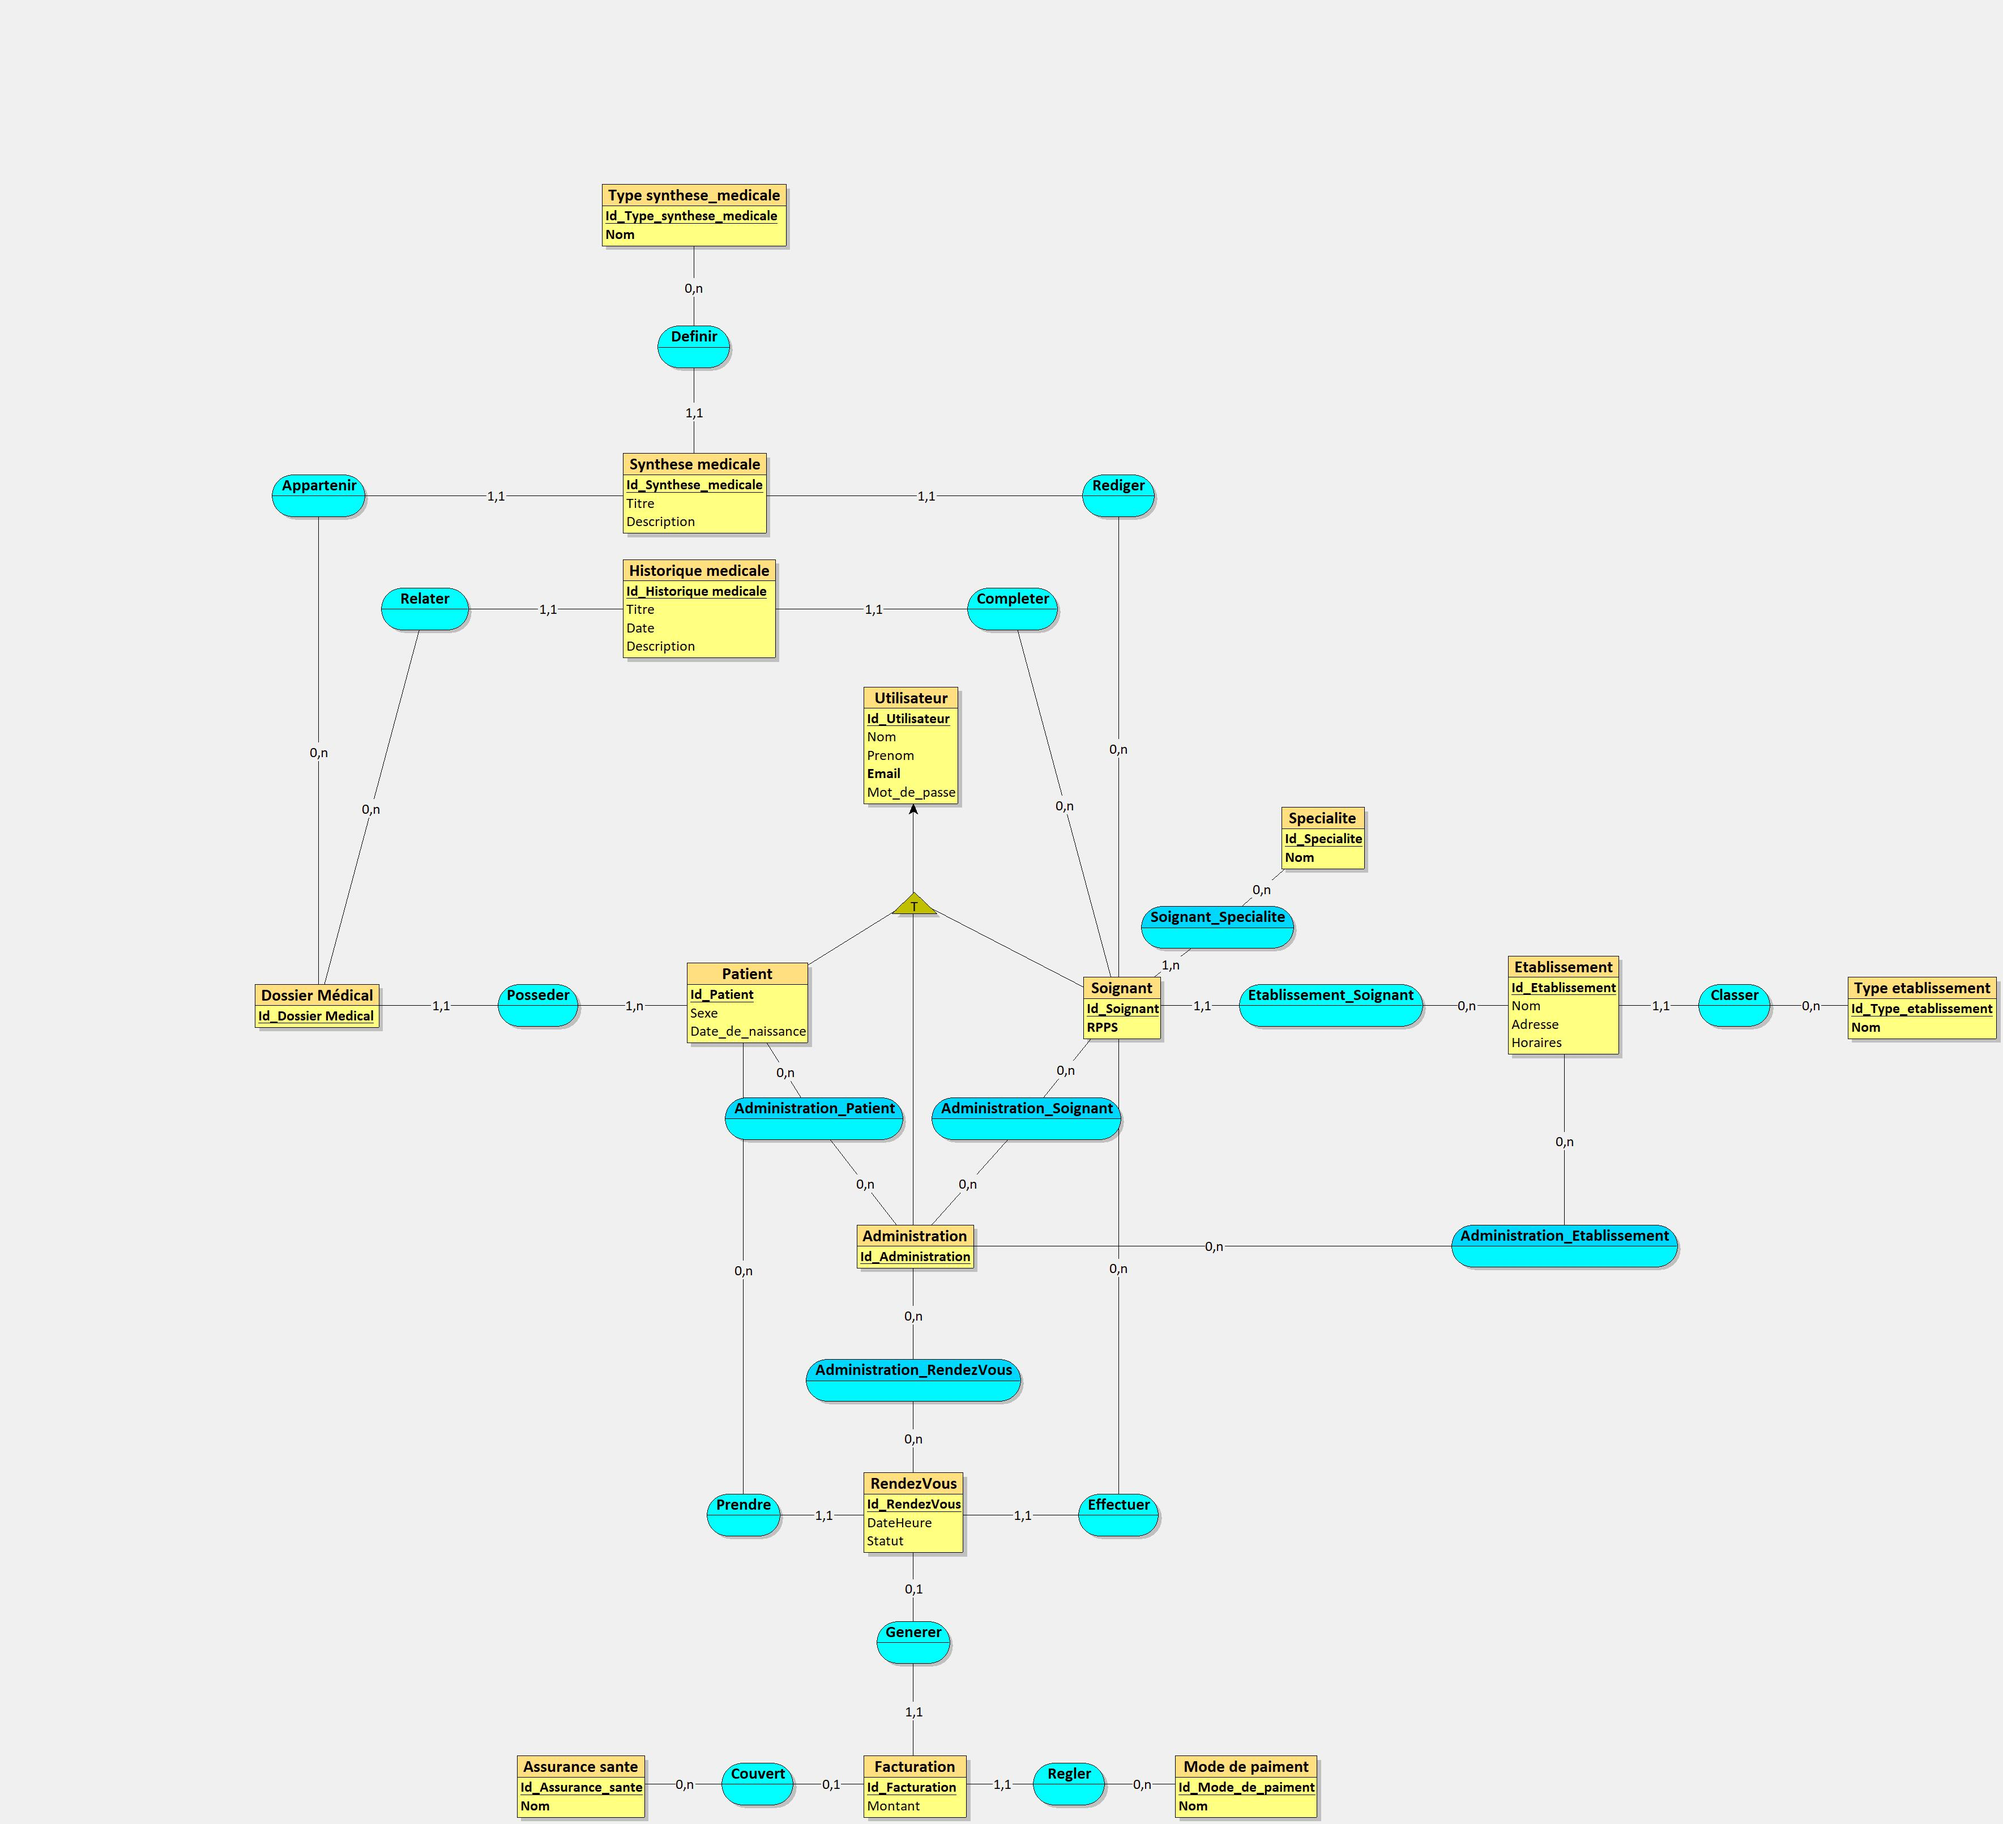
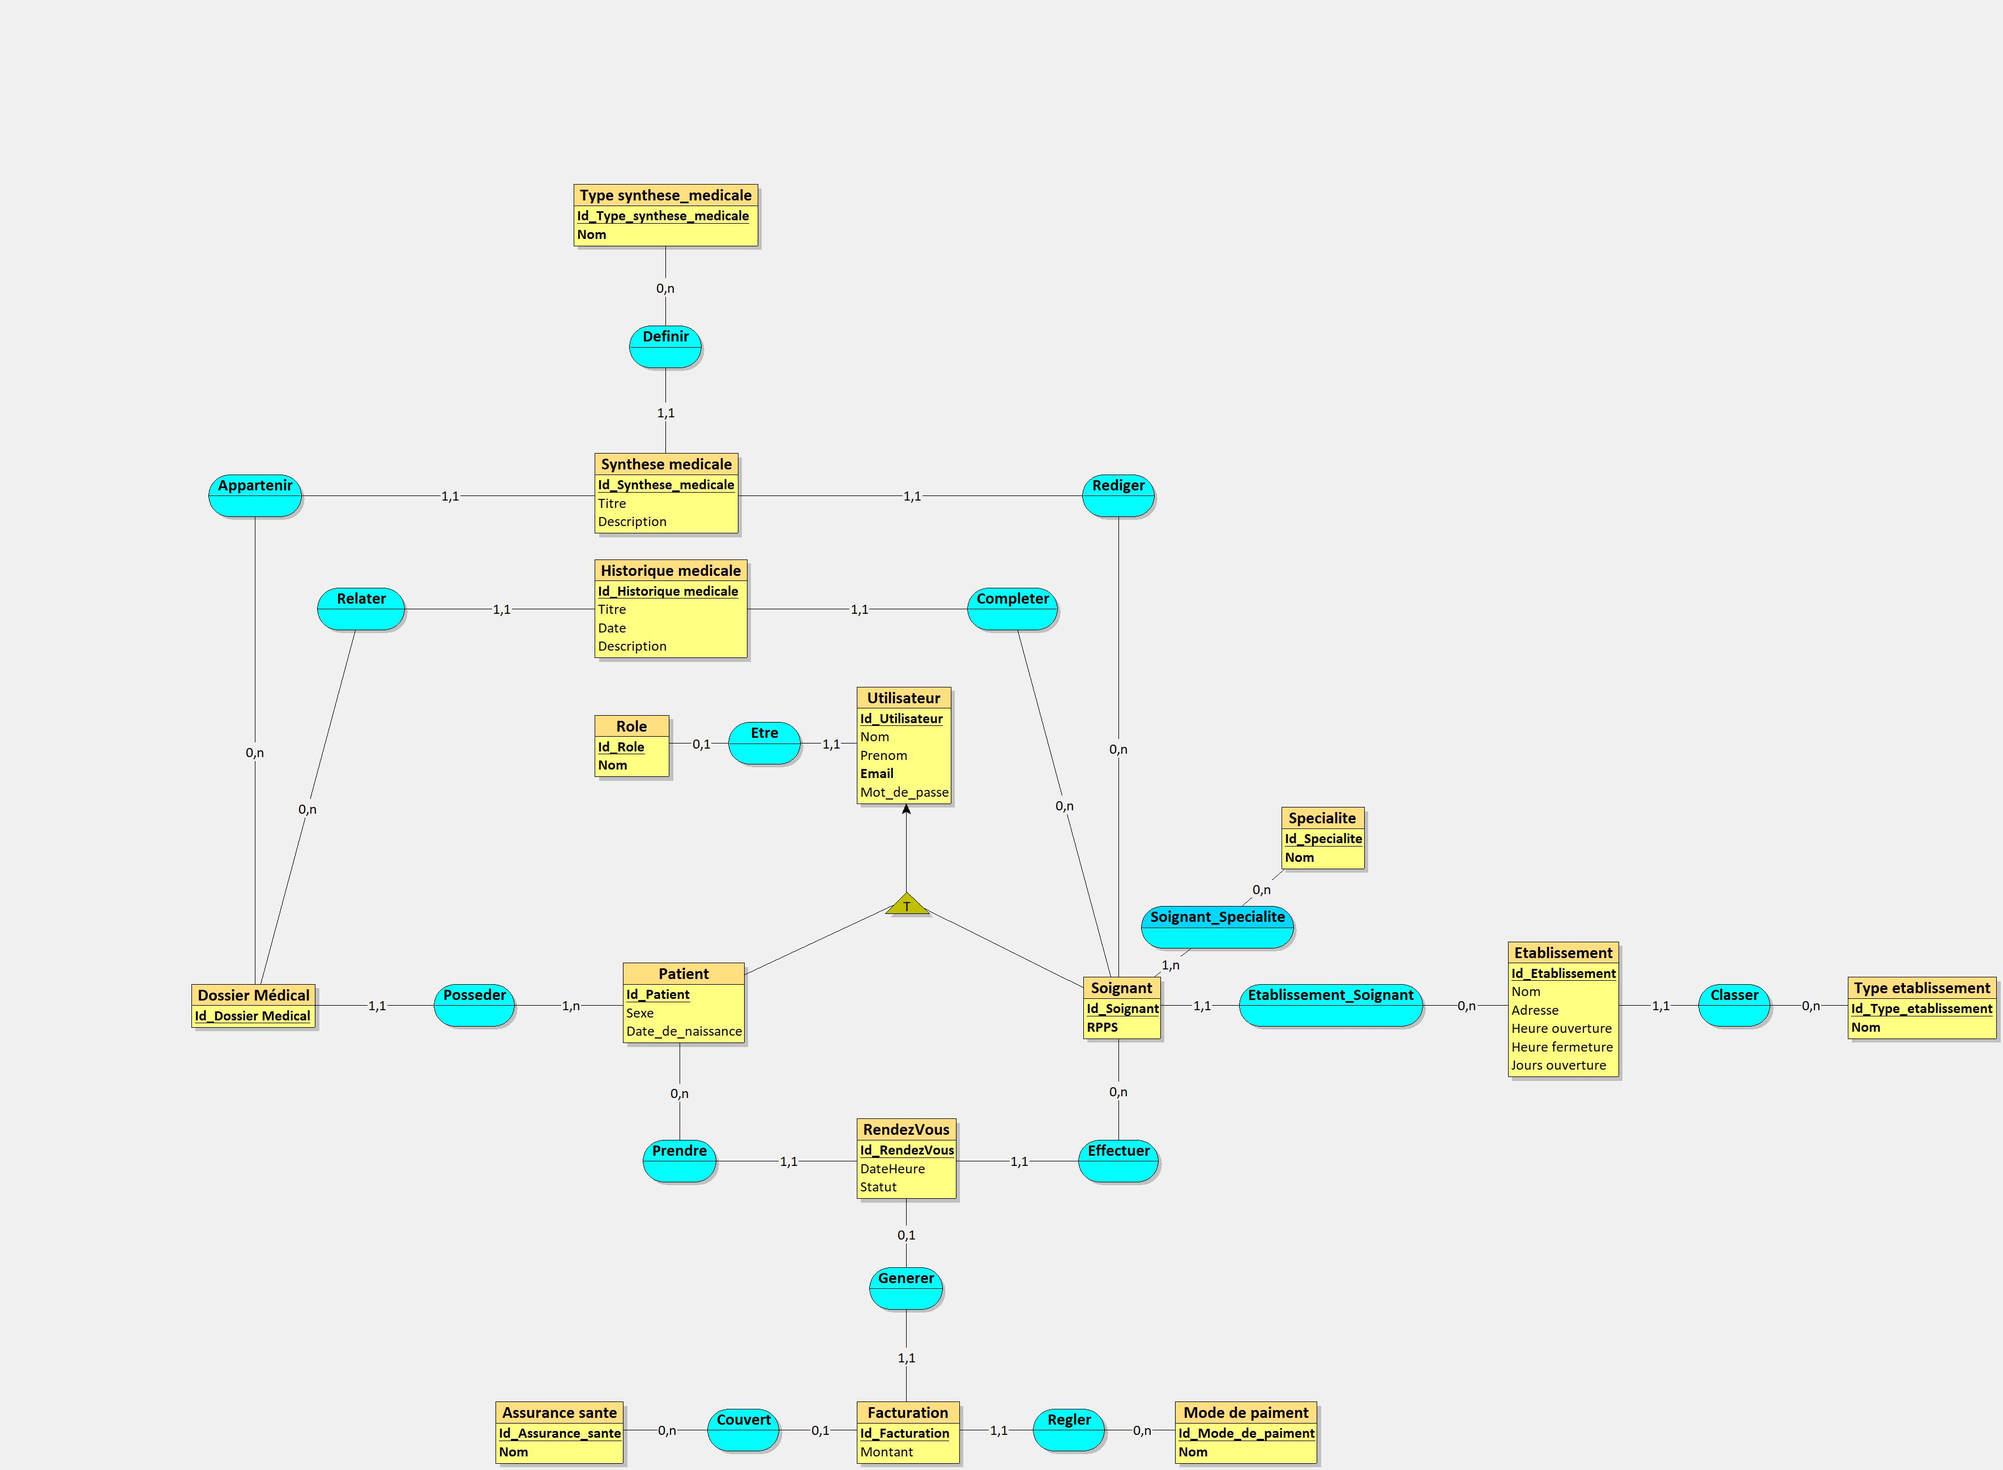
Update : - etablissement.js - utilisateur.js - index.js - doctolink.sql - MCD, MLD, MPD
Add :
- role.js

Delete :
- administration.js

diff --git a/api/index.js b/api/index.js
@@ -1,7 +1,7 @@
 const express = require('express');
 const Utilisateur = require('./models/utilisateur');
 const Patient = require('./models/patient');
-const Administration = require('./models/administration');
+const Role = require('./models/role');
 const Specialite = require('./models/specialite');
 const Type_etablissement = require('./models/type_etablissement');
 const Type_synthese_medicale = require('./models/type_synthese_medicale');
@@ -86,6 +86,19 @@ app.delete('/utilisateur/:id_utilisateur', async (req, res) => {
     }
 });
 
+app.get('/utilisateur/:id_utilisateur/role', async (req, res) => {
+    try {
+        const role = await Utilisateur.getUserRoleById(req.params.id_utilisateur);
+        if (role) {
+            res.status(200).json({ role });
+        } else {
+            res.status(404).json({ message: "Utilisateur non trouvé" });
+        }
+    } catch (error) {
+        res.status(500).json({ error: error.message });
+    }
+});
+
 
 
 // Endpoints patient
@@ -137,39 +150,48 @@ app.get('/patient/utilisateur/:id_utilisateur', async (req, res) => {
 
 
 
-// Endpoints administration
+// Endpoints role
 
-app.post('/administration', async (req, res) => {
+app.post('/role', async (req, res) => {
     try {
-        const newAdministration = await Administration.createAdmin(req.body);
-        res.status(201).json({ newAdministration });
+        const newRole = await Role.createRole(req.body);
+        res.status(201).json({ newRole });
     } catch (error) {
         res.status(500).json({ error: error.message });
     }
 });
 
-app.get('/administration', async (req, res) => {
+app.get('/role', async (req, res) => {
     try {
-        const administration = await Administration.getAllAdmin();
-        res.status(200).json(administration);
+        const role = await Role.getAllRole();
+        res.status(200).json(role);
     } catch (error) {
         res.status(500).json({ error: error.message });
     }
 });
 
-app.get('/administration/:id_administration', async (req, res) => {
+app.get('/role/:id_role', async (req, res) => {
     try {
-        const administration = await Administration.getAdminById(req.params.id_administration);
-        administration ? res.status(200).json(administration) : res.status(404).json({ message: "Administration non trouvé" });
+        const role = await Role.getRoleById(req.params.id_role);
+        role ? res.status(200).json(role) : res.status(404).json({ message: "Role non trouvé" });
     } catch (error) {
         res.status(500).json({ error: error.message });
     }
 });
 
-app.get('/administration/utilisateur/:id_utilisateur', async (req, res) => {
+app.put('/role/:id_role', async (req, res) => {
     try {
-        const administration = await Administration.getAdminByIdUtilisateur(req.params.id_utilisateur);
-        administration ? res.status(200).json(administration) : res.status(404).json({ message: "Administration avec cet id utilisateur non trouvé" });
+        const updatedRole = await Role.updateRole(req.params.id_role, req.body);
+        res.status(200).json({ updatedRole });
+    } catch (error) {
+        res.status(500).json({ error: error.message });
+    }
+});
+
+app.delete('/role/:id_role', async (req, res) => {
+    try {
+        await Role.deleteRole(req.params.id_role);
+        res.status(204).send();
     } catch (error) {
         res.status(500).json({ error: error.message });
     }

diff --git a/api/models/etablissement.js b/api/models/etablissement.js
@@ -20,18 +20,18 @@ class Etablissement {
         return result.rows[0]
     }
 
-    static async createEtablissement({nom, adresse, horaires, id_type_etablissement}) {
+    static async createEtablissement({ nom, adresse, heure_ouverture, heure_fermeture, jours_ouverture, id_type_etablissement }) {
         const result = await pool.query(
-            'INSERT INTO etablissement (nom, adresse, horaires, id_type_etablissement) VALUES ($1, $2, $3, $4) RETURNING *',
-            [nom, adresse, horaires, id_type_etablissement]
-        )
-        return result.rows[0]
+            'INSERT INTO etablissement (nom, adresse, heure_ouverture, heure_fermeture, jours_ouverture, id_type_etablissement) VALUES ($1, $2, $3, $4, $5, $6) RETURNING *',
+            [nom, adresse, heure_ouverture, heure_fermeture, jours_ouverture, id_type_etablissement]
+        );
+        return result.rows[0];
     }
 
-    static async updateEtablissement(id_etablissement, { nom, adresse, horaires, id_type_etablissement }) {
+    static async updateEtablissement(id_etablissement, { nom, adresse, heure_ouverture, heure_fermeture, jours_ouverture, id_type_etablissement }) {
         const result = await pool.query(
-            'UPDATE etablissement SET nom = $1, adresse = $2, horaires = $3, id_type_etablissement = $4 WHERE id_etablissement = $5 RETURNING *',
-            [nom, adresse, horaires, id_type_etablissement, id_etablissement]
+            'UPDATE etablissement SET nom = $1, adresse = $2, heure_ouverture = $3, heure_fermeture = $4, jours_ouverture = $5, id_type_etablissement = $6 WHERE id_etablissement = $7 RETURNING *',
+            [nom, adresse, heure_ouverture, heure_fermeture, jours_ouverture, id_type_etablissement, id_etablissement]
         );
         return result.rows[0];
     }

diff --git a/api/models/utilisateur.js b/api/models/utilisateur.js
@@ -25,18 +25,24 @@ class Utilisateur {
         return result.rows[0]
     }
 
-    static async createUser({nom, prenom, email, mot_de_passe}) {
+    static async getUserRoleById(id_utilisateur) {
         const result = await pool.query(
-            'INSERT INTO utilisateur (nom, prenom, email, mot_de_passe) VALUES ($1, $2, $3, $4) RETURNING *',
-            [nom, prenom, email, mot_de_passe]
-        )
-        return result.rows[0]
+            `SELECT role.nom AS nom_du_role FROM utilisateur JOIN role ON utilisateur.id_role = role.id_role WHERE utilisateur.id_utilisateur = $1`, [id_utilisateur]);
+        return result.rows[0]?.nom_du_role;
     }
 
-    static async updateUser(id_utilisateur, {nom, prenom, email, mot_de_passe}) {
+    static async createUser({ nom, prenom, email, mot_de_passe, id_role }) {
         const result = await pool.query(
-            'UPDATE utilisateur SET nom = $1, prenom = $2, email = $3, mot_de_passe = $4 WHERE id_utilisateur = $5 RETURNING *',
-            [nom, prenom, email, mot_de_passe, id_utilisateur]
+            'INSERT INTO utilisateur (nom, prenom, email, mot_de_passe, id_role) VALUES ($1, $2, $3, $4, $5) RETURNING *',
+            [nom, prenom, email, mot_de_passe, id_role]
+        );
+        return result.rows[0];
+    }
+
+    static async updateUser(id_utilisateur, { nom, prenom, email, mot_de_passe, id_role }) {
+        const result = await pool.query(
+            'UPDATE utilisateur SET nom = $1, prenom = $2, email = $3, mot_de_passe = $4, id_role = $5 WHERE id_utilisateur = $6 RETURNING *',
+            [nom, prenom, email, mot_de_passe, id_role, id_utilisateur]
         );
     }
 

diff --git a/api/models/role.js b/api/models/role.js
@@ -1,0 +1,47 @@
+const { Pool } = require("pg");
+require('dotenv').config();
+
+const pool = new Pool({
+    host: process.env.DB_HOST,
+    user: process.env.DB_USER,
+    password: process.env.DB_PASSWORD,
+    database: process.env.DB_NAME,
+    port: process.env.DB_PORT,
+})
+
+class Role {
+    static async getAllRole() {
+        const result = await pool.query('SELECT * FROM role');
+        return result.rows;
+    }
+
+    static async getRoleById(id_role) {
+        const result = await pool.query('SELECT * FROM role WHERE id_role = $1', [id_role]);
+        return result.rows[0]
+    }
+
+    static async createRole({nom}) {
+        const result = await pool.query(
+            'INSERT INTO role (nom) VALUES ($1) RETURNING *',
+            [nom]
+        )
+        return result.rows[0]
+    }
+
+    static async updateRole(id_role, { nom }) {
+        const result = await pool.query(
+            'UPDATE role SET nom = $1 WHERE id_role = $2 RETURNING *',
+            [nom, id_role]
+        );
+        return result.rows[0];
+    }
+
+    static async deleteRole(id_role) {
+        await pool.query(
+            'DELETE FROM role WHERE id_role = $1',
+            [id_role]
+        );
+    }
+}
+
+module.exports = Role;
